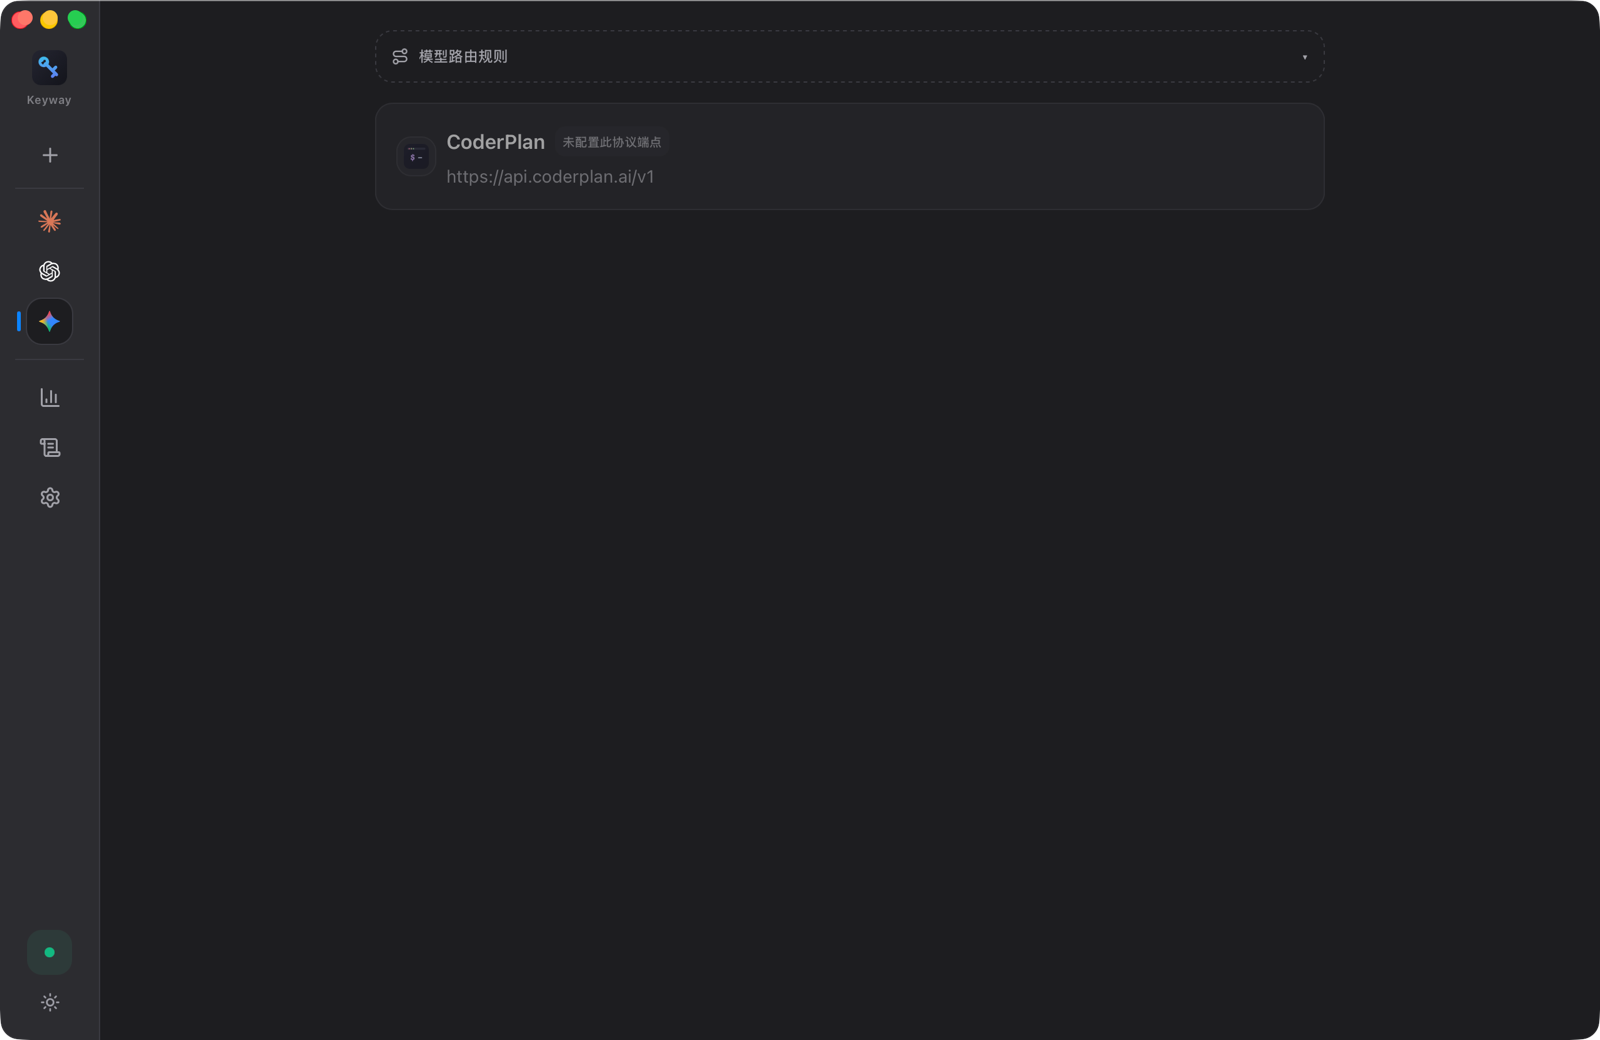
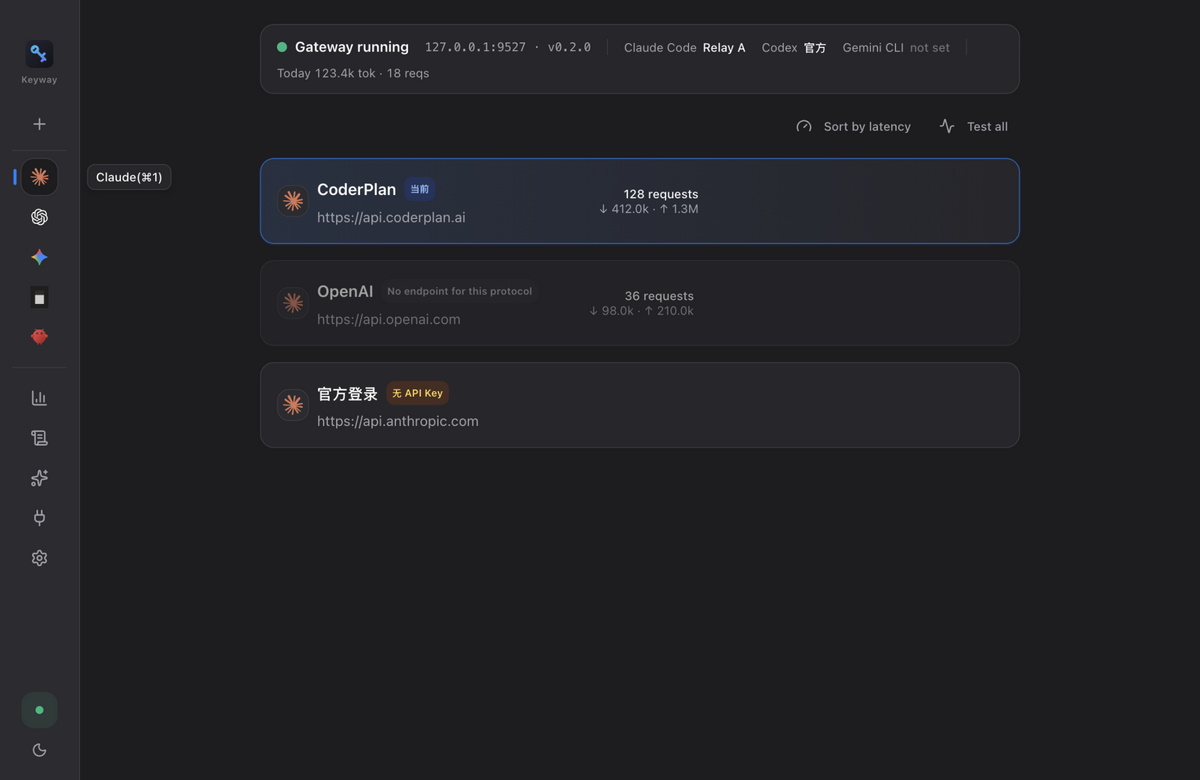
docs: 优化 README 与官网展示
- 官网页脚脚本渲染修复
- 更新官网应用截图(浅色/深色)

diff --git a/site/index.html b/site/index.html
@@ -414,6 +414,7 @@
       </div>
     </footer>
 
+    <script>
       // macOS 访客直链对应架构 dmg(失败/其他平台回退 Releases 列表)
       (function () {
         var mac = /Mac/i.test(navigator.platform || navigator.userAgent);
@@ -424,6 +425,8 @@
           a.setAttribute("href", "https://github.com/anmutu/keyway/releases/download/v0.2.0/" + file);
         });
       })();
+    </script>
+
     <script>
       var I18N = {
         en: {

diff --git a/README.md b/README.md
@@ -11,7 +11,7 @@
 一个应用管理 **Claude Code · Codex · Gemini CLI · OpenCode · OpenClaw** 的全部供应商。
 切换即生效、免重启;API Key 加密存储、永不落盘明文。
 
-[特性](#-核心特性) · [快速开始](#-快速开始) · [与 CC Switch 对比](#-与-cc-switch-对比)
+[特性](#-核心特性) · [快速开始](#-快速开始)
 
 |                  浅色                  |                  深色                  |
 | :-----------------------------------: | :-----------------------------------: |
@@ -45,19 +45,6 @@ pnpm tauri build   # 构建
 ```
 
 环境要求:Node 18+ / pnpm / Rust 1.85+ / Xcode CLT(macOS)。
-
-## 🆚 与 CC Switch 对比
-
-| 能力 | Conduit | CC Switch |
-|---|---|---|
-| Codex / Gemini 切换免重启 | ✅ 默认支持 | 需重启 / 手动开代理 |
-| API Key 存储 | 系统钥匙串 + 整库加密 | 明文数据库 |
-| 本地代理 | 默认开启 | 可选开启 |
-| 关闭窗口后服务存活 | ✅ 驻留托盘 | — |
-| 用量统计 | 转发即计量(原生) | Lua 脚本二次请求 |
-| 多 CLI 支持 | 5 个 | 6 个 |
-
-> 致敬 [farion1231/cc-switch](https://github.com/farion1231/cc-switch)(MIT)——本项目的视觉体系参考了它。
 
 ## 📖 使用文档
 
